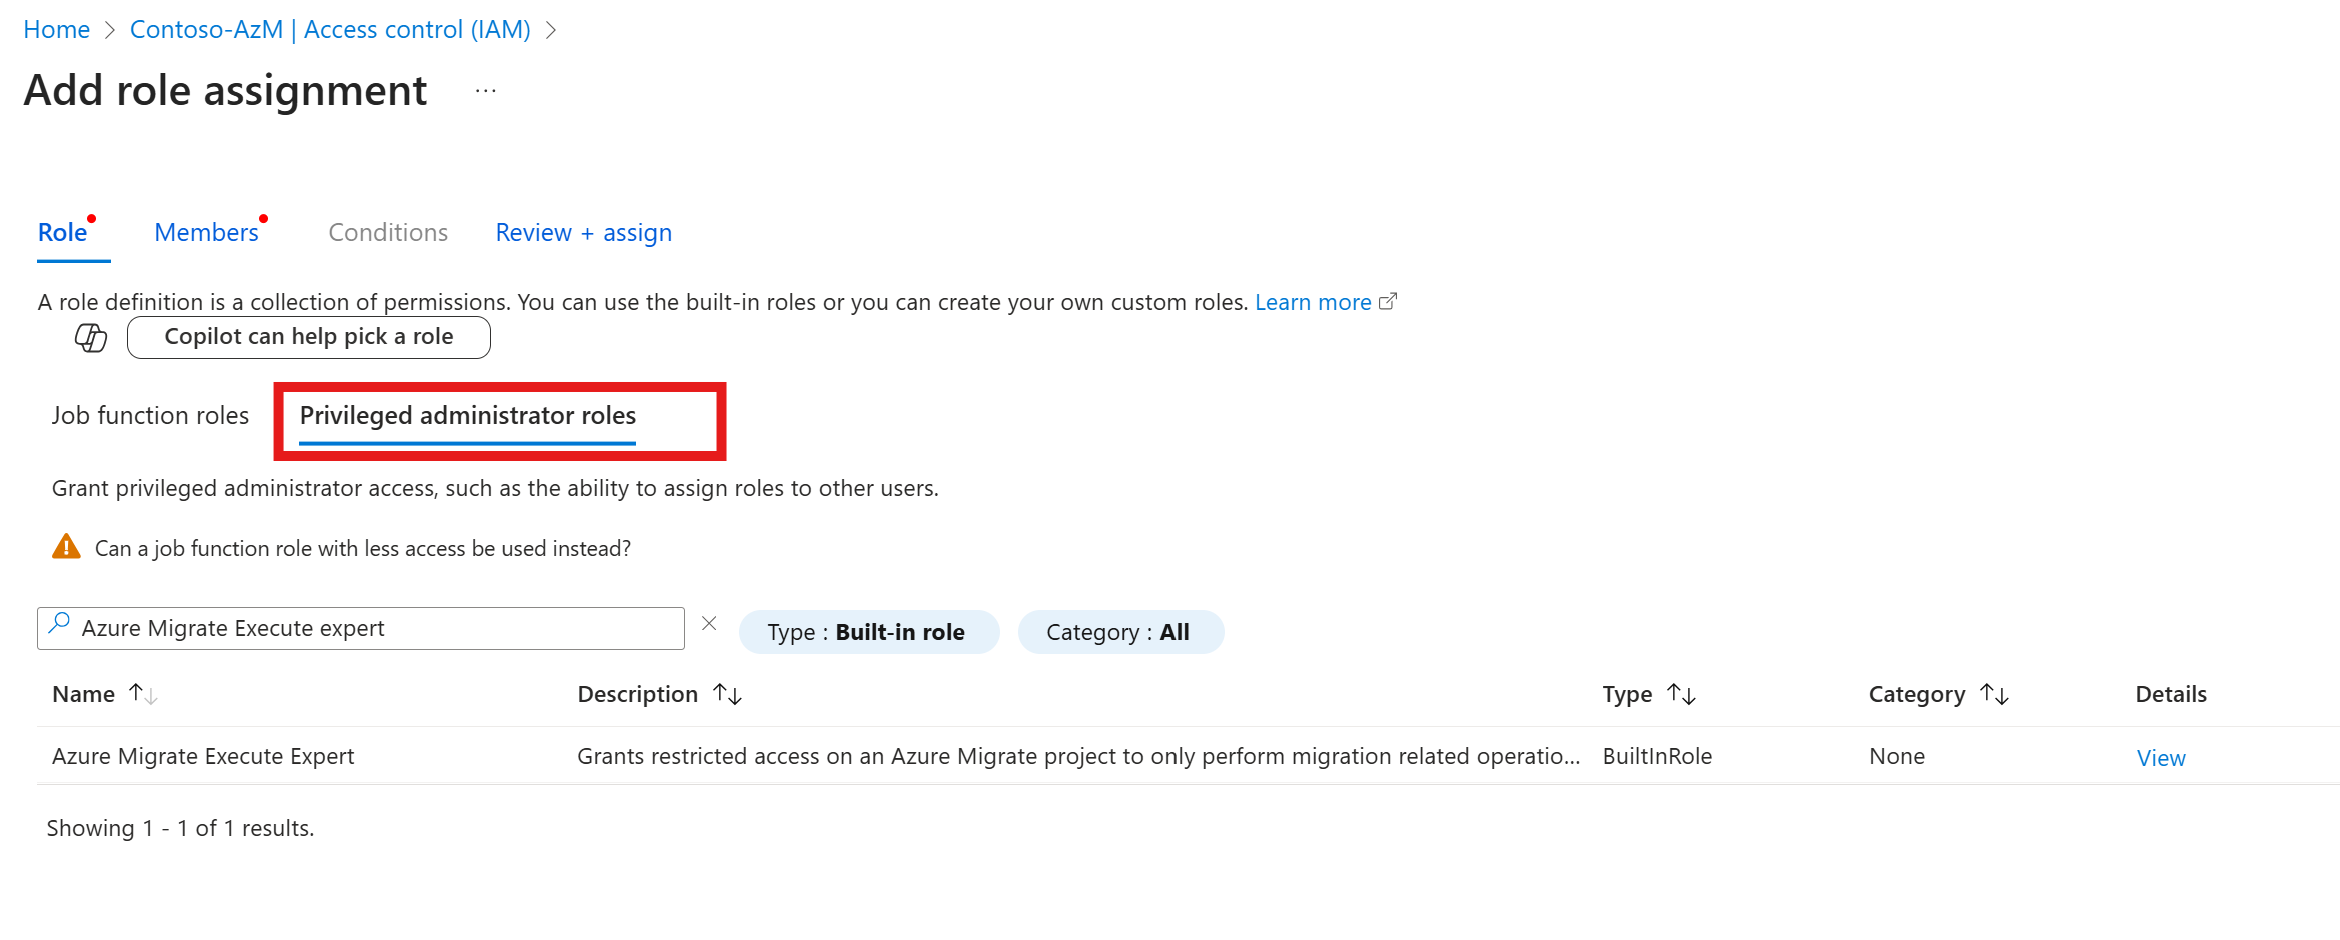
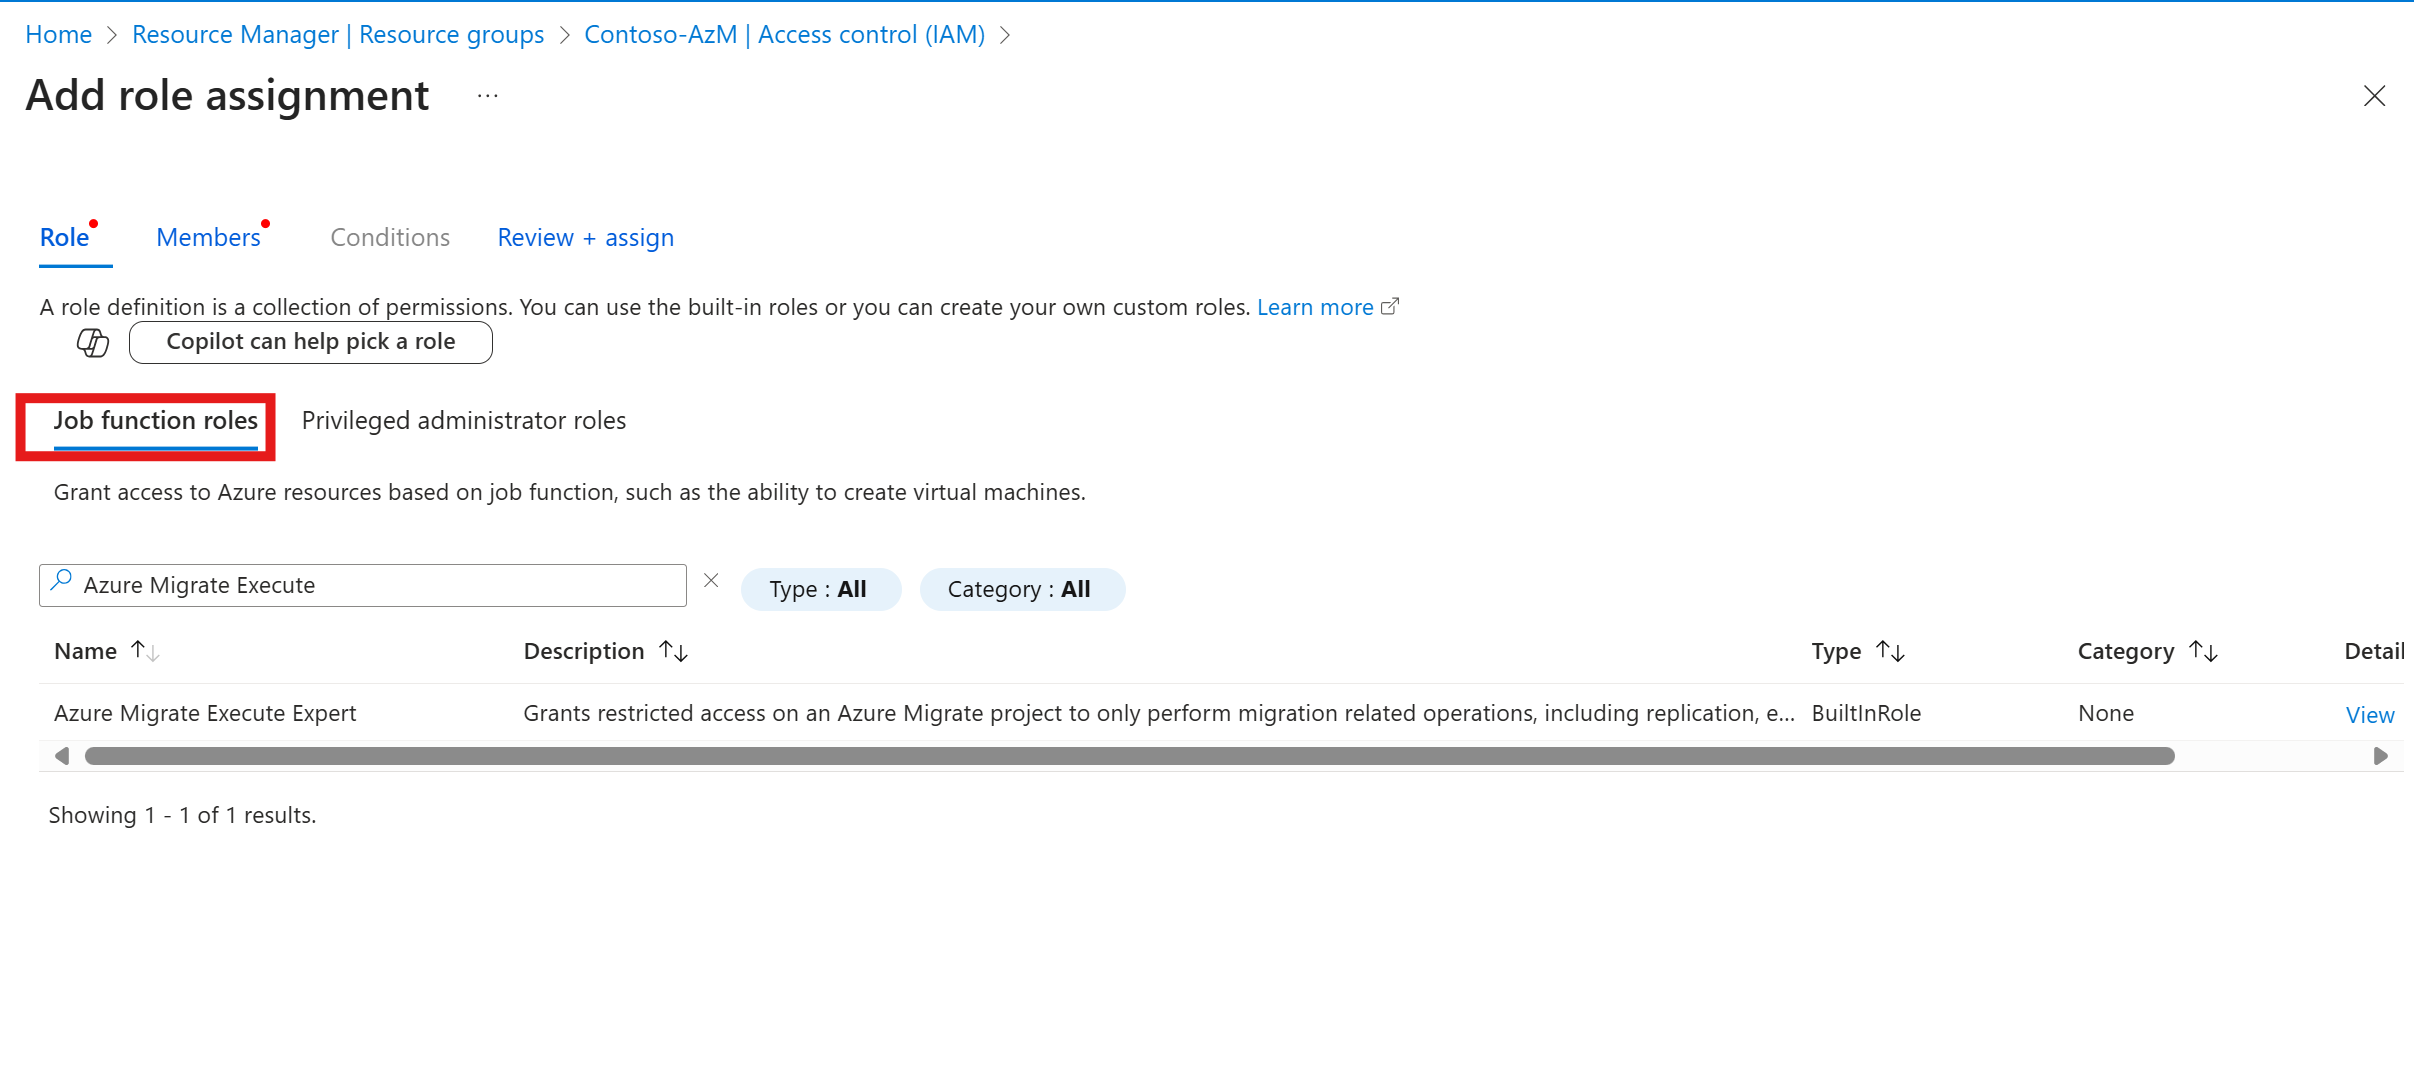
Minor updates to documentation and image
- Updated content in prepare-azure-accounts.md
- Updated role-assignment-execute-expert.png image

diff --git a/articles/migrate/prepare-azure-accounts.md b/articles/migrate/prepare-azure-accounts.md
@@ -10,7 +10,7 @@ ms.custom: engagement-fy25
 # Customer intent: "As a cloud architect, I want to prepare Azure accounts and assign Azure Migrate built-in roles to provide secure, least-privileged access for Azure Migrate projects". 
 ---
 
-# Quickstart: Prepare Azure accounts for Azure Migrate using built-in roles
+# Prepare Azure accounts for Azure Migrate using built-in roles
 
 Azure Migrate is a unified migration platform that lets customers discover, assess, and migrate various workloads including servers, databases, and web apps. A typical customer's migration journey includes three [phases](migrate-services-overview.md#migration-phases): the Decide phase to discover the workloads, plan phase to assess the Azure readiness of workloads, right size the Azure targets and execute phase to migrate and modernize the workloads. The article explains how to implement Azure Role-based access control to grant least privileged Azure access in Azure Migrate using built-in roles. The built-in roles are purposefully mapped to the Decide, Plan, and Execute phases, so users have only the permissions needed for that phase of the migration journey. 
 
@@ -79,13 +79,13 @@ In this section, you learn how to grant access to users by assigning Azure Migra
 6.	Select the preferred assignment type and duration. The recommended approach is to choose eligible type and time-bound assignment duration. 
 7. Select next and review + assign to complete the role assignment. 
 ### Assigning Decide and Plan Expert and Execute Expert role
-Azure Migrate owner can grant a user access to Azure Migrate Decide and Plan Expert and Azure Migrate Execute Expert roles.  
+An Azure Migrate Owner can assign the roles **Azure Migrate Decide and Plan Expert** and **Azure Migrate Execute Expert** to a user.  
 1.	Select the resource group where the Migrate project is set up.
 2.	In the navigation menu, select Access control (IAM)
 3.	Select Add > Add role assignment
 4.	Select the role you want to assign. The Azure Migrate Decide and Plan Expert role and Azure Migrate Execute Expert role appear under Job function roles. 
-:::image type="content" source="./media/prepare-azure-accounts/role-assignment-decide-plan-expert.png" alt-text="Azure portal Add role assignment page displaying Job function roles tab with Azure Migrate Decide and Plan Expert role highlighted in red rectangle. The interface shows role selection options with tabs for Role, Members, Conditions, and Review + assign. Text indicates this role grants restricted access on Azure Migrate project to only perform planning operations including appliance/import-based discovery, managing inventory, identifying server dependencies, creation of business case & assessment reports." lightbox="./media/prepare-azure-accounts/role-assignment-decide-plan-expert.png":::
-:::image type="content" source="./media/prepare-azure-accounts/role-assignment-execute-expert.png" alt-text="Azure portal Add role assignment page displaying Job function roles tab with Azure Migrate Decide and Plan Expert role highlighted in red rectangle. The interface shows role selection options with tabs for Role, Members, Conditions, and Review + assign. Text indicates this role grants restricted access on Azure Migrate project to only perform planning operations including appliance/import-based discovery, managing inventory, identifying server dependencies, creation of business case & assessment reports." lightbox="./media/prepare-azure-accounts/role-assignment-execute-expert.png":::
+:::image type="content" source="./media/prepare-azure-accounts/role-assignment-decide-plan-expert.png" alt-text="Azure portal Add role assignment page displaying Job function roles tab with Azure Migrate Decide and Plan Expert role highlighted in red rectangle.Text indicates this role grants restricted access on Azure Migrate project to only perform planning operations including appliance or import-based discovery, managing inventory, identifying server dependencies, creation of business case and assessment reports." lightbox="./media/prepare-azure-accounts/role-assignment-decide-plan-expert.png":::
+:::image type="content" source="./media/prepare-azure-accounts/role-assignment-execute-expert.png" alt-text="Azure portal Add role assignment page displaying Job function roles tab with Azure Migrate Execute Expert role highlighted in red rectangle. Text indicates this role grants restricted access on Azure Migrate project to only perform migration related operations including replication, execution of test migrations, tracking and monitoring of migration progress, and initiation of agentless and agent-based migrations." lightbox="./media/prepare-azure-accounts/role-assignment-execute-expert.png":::
 
 5.	After selecting the role, on the members tab, select the user or group.
 6.	Select the preferred assignment type and duration. The recommended approach is to choose eligible type and time-bound assignment duration. 
@@ -94,7 +94,7 @@ Azure Migrate owner can grant a user access to Azure Migrate Decide and Plan Exp
 Follow these steps to check your access
 1.	From the resource group/subscription, select Access control (IAM) and view my access.
 2.	Verify if the role assignment is successful.
-:::image type="content" source="./media/prepare-azure-accounts/view-my-access.png" alt-text="Azure portal Access control IAM interface showing the Check access section on the left side with a blue View my access button highlighted. The main content area displays Current role assignments tab with a table showing Azure Migrate Owner role assignment. The table includes columns for Role, Description, Scope, and Group assignment. One row shows Azure Migrate Owner role with description Grants full access to create and manage Azure Migrate projects, scoped to This resource, with Group assignment showing two dashes. A red rectangle highlights the Azure Migrate Owner row in the table." lightbox="./media/prepare-azure-accounts/view-my-access.png":::
+:::image type="content" source="./media/prepare-azure-accounts/view-my-access.png" alt-text="Azure portal Access control IAM interface showing the Check access section on the left side with a blue View my access button highlighted." lightbox="./media/prepare-azure-accounts/view-my-access.png":::
 3.	To check access for a user or group, select check access. Enter the user or group details and verify role assignment. 
 
 ### Remove access
@@ -102,7 +102,7 @@ Follow these steps to check your access
 2.	Open Access control (IAM) at scope subscription or resource group. 
 3.	Select role assignments
 4.	Select the role assignment that you would like to remove
-:::image type="content" source="./media/prepare-azure-accounts/remove-access.png" alt-text="Azure portal Access control IAM interface showing the Check access section on the left side with a blue View my access button highlighted. The main content area displays Current role assignments tab with a table showing Azure Migrate Owner role assignment. The table includes columns for Role, Description, Scope, and Group assignment. One row shows Azure Migrate Owner role with description Grants full access to create and manage Azure Migrate projects, scoped to This resource, with Group assignment showing two dashes. A red rectangle highlights the Azure Migrate Owner row in the table." lightbox="./media/prepare-azure-accounts/remove-access.png":::
+:::image type="content" source="./media/prepare-azure-accounts/remove-access.png" alt-text="Azure portal Access control IAM page showing role assignments table with a selected user row highlighted in blue and a red Delete button prominently displayed in the top toolbar, demonstrating the process to remove role assignments from users in the resource management interface." lightbox="./media/prepare-azure-accounts/remove-access.png":::
 5.	Select Delete to remove the role assignment.
 ## Guidance for role assignments at the resource group scope
 We recommend performing role assignments at resource group to operate in a least privilege access model. Note the following scenarios when role assignments are done at the resource group scope.
